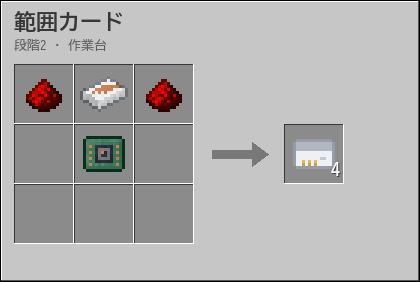
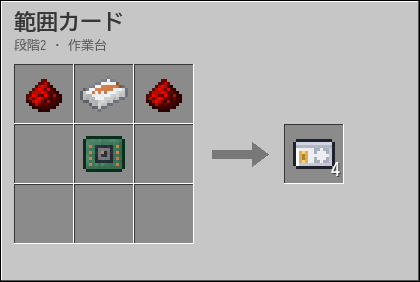
Redraw work cards as IC cards with a dark outline and a use glyph
The grey edge vanished against inventory slots and every card differed
only by its band colour. Cards now get a dark navy outline, a gold chip
and a glyph per use (pin, area corners, recipe grid, list, prompt), and
show unrecorded states in grey instead of marks outside the card.

Changed region(s): [[0.681, 0.4823, 0.8048, 0.6241]]

diff --git a/tools/androids.py b/tools/androids.py
@@ -831,15 +831,15 @@ def item_textures(ti, save):
     save(wear(felling_icon(Image), 29), ti / 'android_felling_upgrade.png')
     save(wear(fishing_icon(Image), 31), ti / 'android_fishing_upgrade.png')
     save(wear(farming_icon(Image), 37), ti / 'android_farming_upgrade.png')
-    save(card_icon(Image, (176, 182, 194), recorded=False), ti / 'work_location_card.png')
-    save(card_icon(Image, (90, 190, 120), recorded=True), ti / 'work_location_card_recorded.png')
+    save(card_icon(Image, (90, 190, 120), 'pin', recorded=False), ti / 'work_location_card.png')
+    save(card_icon(Image, (90, 190, 120), 'pin'), ti / 'work_location_card_recorded.png')
     save(area_card_icon(Image, 0), ti / 'area_card.png')
     save(area_card_icon(Image, 1), ti / 'area_card_first.png')
     save(area_card_icon(Image, 2), ti / 'area_card_recorded.png')
     save(glasses_icon(Image), ti / 'survey_glasses.png')         # レンズを透かすので、汚しを重ねない
     save(glasses_worn_texture(Image), ti / 'survey_glasses_worn.png')
-    save(card_icon(Image, (120, 200, 236)), ti / 'recipe_card.png')
-    save(card_icon(Image, (236, 178, 92)), ti / 'procedure_card.png')
+    save(card_icon(Image, (120, 200, 236), 'recipe'), ti / 'recipe_card.png')
+    save(card_icon(Image, (236, 178, 92), 'procedure'), ti / 'procedure_card.png')
     save(program_card_icon(Image), ti / 'program_card.png')
 
 
@@ -1331,66 +1331,70 @@ def wear(im, seed):
     return im
 
 
-def program_card_icon(Image):
-    """プログラムカード: 作業のカードに紫の帯と、白い地に小さな「>_」（書いた文の行）。"""
-    im = card_icon(Image, (168, 122, 232))
-    px = im.load()
-    ink = (92, 60, 150, 255)
-    for (x, y) in ((3, 7), (4, 8), (3, 9)):          # >
-        px[x, y] = ink
-    for x in (6, 7):                                # _
-        px[x, 9] = ink
-    px[10, 8] = (200, 170, 250, 255)                # 行の光
-    return im
+# 作業のカードの絵柄（5×5。X は絵柄の色、o は光）。カードの右半分に描く
+CARD_GLYPHS = {
+    'pin': ('.XXX.', 'XXoXX', 'XXXXX', '.XXX.', '..X..'),        # 作業位置: 位置のピン
+    'area': ('XX.XX', 'X...X', '.....', 'X...X', 'XX.XX'),       # 範囲: 四隅の角の印
+    'recipe': ('X.X.X', '.....', 'X.X.X', '.....', 'XXX.o'),     # レシピ: 作業台のマスと、できる物
+    'procedure': ('X.XXX', '.....', 'X.XXX', '.....', 'X.XX.'),  # 手順: 箇条書き
+    'program': ('X....', '.X...', 'X....', '.....', '..XXX'),    # プログラム: >_
+}
+CARD_INK = (30, 33, 44)            # 縁: インベントリの灰色（139）からも、カードの白からも離れる濃い紺
+CARD_BLANK = (176, 182, 194)       # 何も記録していないときの帯
+CARD_BLANK_GLYPH = (168, 174, 188)
 
 
-def card_icon(Image, stripe, recorded=None):
-    """作業のカード: 白いカードに色の帯と、金の端子、小さな光る点（作業位置は緑、レシピは水色）。
-    作業位置カードは、未記録（recorded=False）なら帯が灰色で点が消え、記録済みなら帯が緑で、右上に位置の印（ピン）が付く。"""
+def card_icon(Image, stripe, glyph, recorded=True, lit=None):
+    """作業のカード（IC カード）: 白い地に濃い紺の縁、上・左の光と下・右の影、上に型の色の帯、左に金の IC チップ、
+    右に用途の絵柄。recorded=False なら帯と絵柄が灰色（未記録）。lit は絵柄のうち型の色にする所（x, y の判定。None なら全部）。"""
     im = Image.new('RGBA', (16, 16), (0, 0, 0, 0))
     px = im.load()
-    # 外形はデータカードと同じ 14×10（x1〜14、y3〜12）。縁はカードの白を濃くした色
-    for y in range(3, 13):
-        for x in range(1, 15):
-            if (x, y) in ((1, 3), (14, 3), (1, 12), (14, 12)):
+    c = stripe if recorded else CARD_BLANK
+    x0, y0, x1, y1 = 1, 3, 14, 12                  # 外形はデータカードと同じ 14×10
+    for y in range(y0, y1 + 1):
+        for x in range(x0, x1 + 1):
+            if x in (x0, x1) and y in (y0, y1):
+                continue                           # 角を丸める
+            edge = x in (x0, x1) or y in (y0, y1)
+            px[x, y] = (CARD_INK if edge else (236, 238, 243)) + (255,)
+    for x in range(x0 + 1, x1):
+        px[x, y1 - 1] = (196, 200, 212, 255)       # 下の影
+    for y in range(y0 + 1, y1):
+        px[x0 + 1, y] = (255, 255, 255, 255)       # 左の光
+        px[x1 - 1, y] = (196, 200, 212, 255)       # 右の影
+    for x in range(x0 + 1, x1):
+        px[x, 4] = tuple(min(255, v + 30) for v in c) + (255,)
+        px[x, 5] = c + (255,)
+    for y in range(7, 11):                         # IC チップ（真ん中の筋が明るく、その中に接点の切れ目）
+        for x in range(3, 6):
+            px[x, y] = (244, 212, 128, 255) if x == 4 else (220, 176, 80, 255)
+    px[4, 8] = (170, 128, 52, 255)
+    px[4, 9] = (170, 128, 52, 255)
+    ink = tuple(int(v * 0.55) for v in c)
+    shine = tuple(min(255, v + 80) for v in c)
+    for gy, row in enumerate(CARD_GLYPHS[glyph]):
+        for gx, ch in enumerate(row):
+            if ch == '.':
                 continue
-            px[x, y] = ((150, 156, 170) if x in (1, 14) or y in (3, 12) else (238, 240, 244)) + (255,)
-    for y in range(4, 7):
-        for x in range(2, 14):
-            px[x, y] = stripe + (255,)
-    for x in (4, 6, 8):
-        px[x, 10] = (226, 186, 92, 255)
-        px[x, 11] = (200, 160, 70, 255)
-    if recorded is not False:
-        px[11, 9] = tuple(min(255, c + 70) for c in stripe) + (255,)
-        px[10, 9] = stripe + (255,)
-    else:
-        px[11, 9] = (196, 200, 210, 255)
-        px[10, 9] = (196, 200, 210, 255)
-    if recorded:
-        # 位置の印（ピン）: 帯の右上に、濃い緑の頭と白い光
-        for (x, y) in ((11, 1), (12, 1), (11, 2), (12, 2)):
-            px[x, y] = (40, 120, 70, 255)
-        px[11, 1] = (200, 255, 210, 255)
-        px[12, 3] = (40, 120, 70, 255)
+            on = recorded and (lit is None or lit(gx, gy))
+            colour = (shine if ch == 'o' else ink) if on else CARD_BLANK_GLYPH
+            px[8 + gx, 6 + gy] = colour + (255,)
     return im
+
+
+def program_card_icon(Image):
+    """プログラムカード: 紫の帯と「>_」。"""
+    return card_icon(Image, (168, 122, 232), 'program')
 
 
 def area_card_icon(Image, corners):
-    """範囲カード: 作業のカードに、範囲の角の印（かぎ形）。corners: 0 未記録（灰色の帯、印なし）、1 1つ目の角だけ（左上）、2 範囲ができた（左上と右下）。"""
-    stripe = (176, 182, 194) if corners == 0 else (120, 150, 236)
-    im = card_icon(Image, stripe, recorded=False if corners == 0 else None)
-    px = im.load()
-    mark = (60, 80, 170, 255)
-    if corners >= 1:
-        for (x, y) in ((0, 0), (1, 0), (2, 0), (0, 1), (0, 2)):
-            px[x, y] = mark
-        px[1, 1] = (200, 215, 255, 255)
-    if corners >= 2:
-        for (x, y) in ((15, 15), (14, 15), (13, 15), (15, 14), (15, 13)):
-            px[x, y] = mark
-        px[14, 14] = (200, 215, 255, 255)
-    return im
+    """範囲カード: 四隅の角の印。corners: 0 未記録（灰色）、1 1つ目の角だけ（左上の印だけ青）、2 範囲ができた（全部青）。"""
+    stripe = (120, 150, 236)
+    if corners == 0:
+        return card_icon(Image, stripe, 'area', recorded=False)
+    if corners == 1:
+        return card_icon(Image, stripe, 'area', lit=lambda x, y: x <= 1 and y <= 1)
+    return card_icon(Image, stripe, 'area')
 
 
 def glasses_icon(Image):
